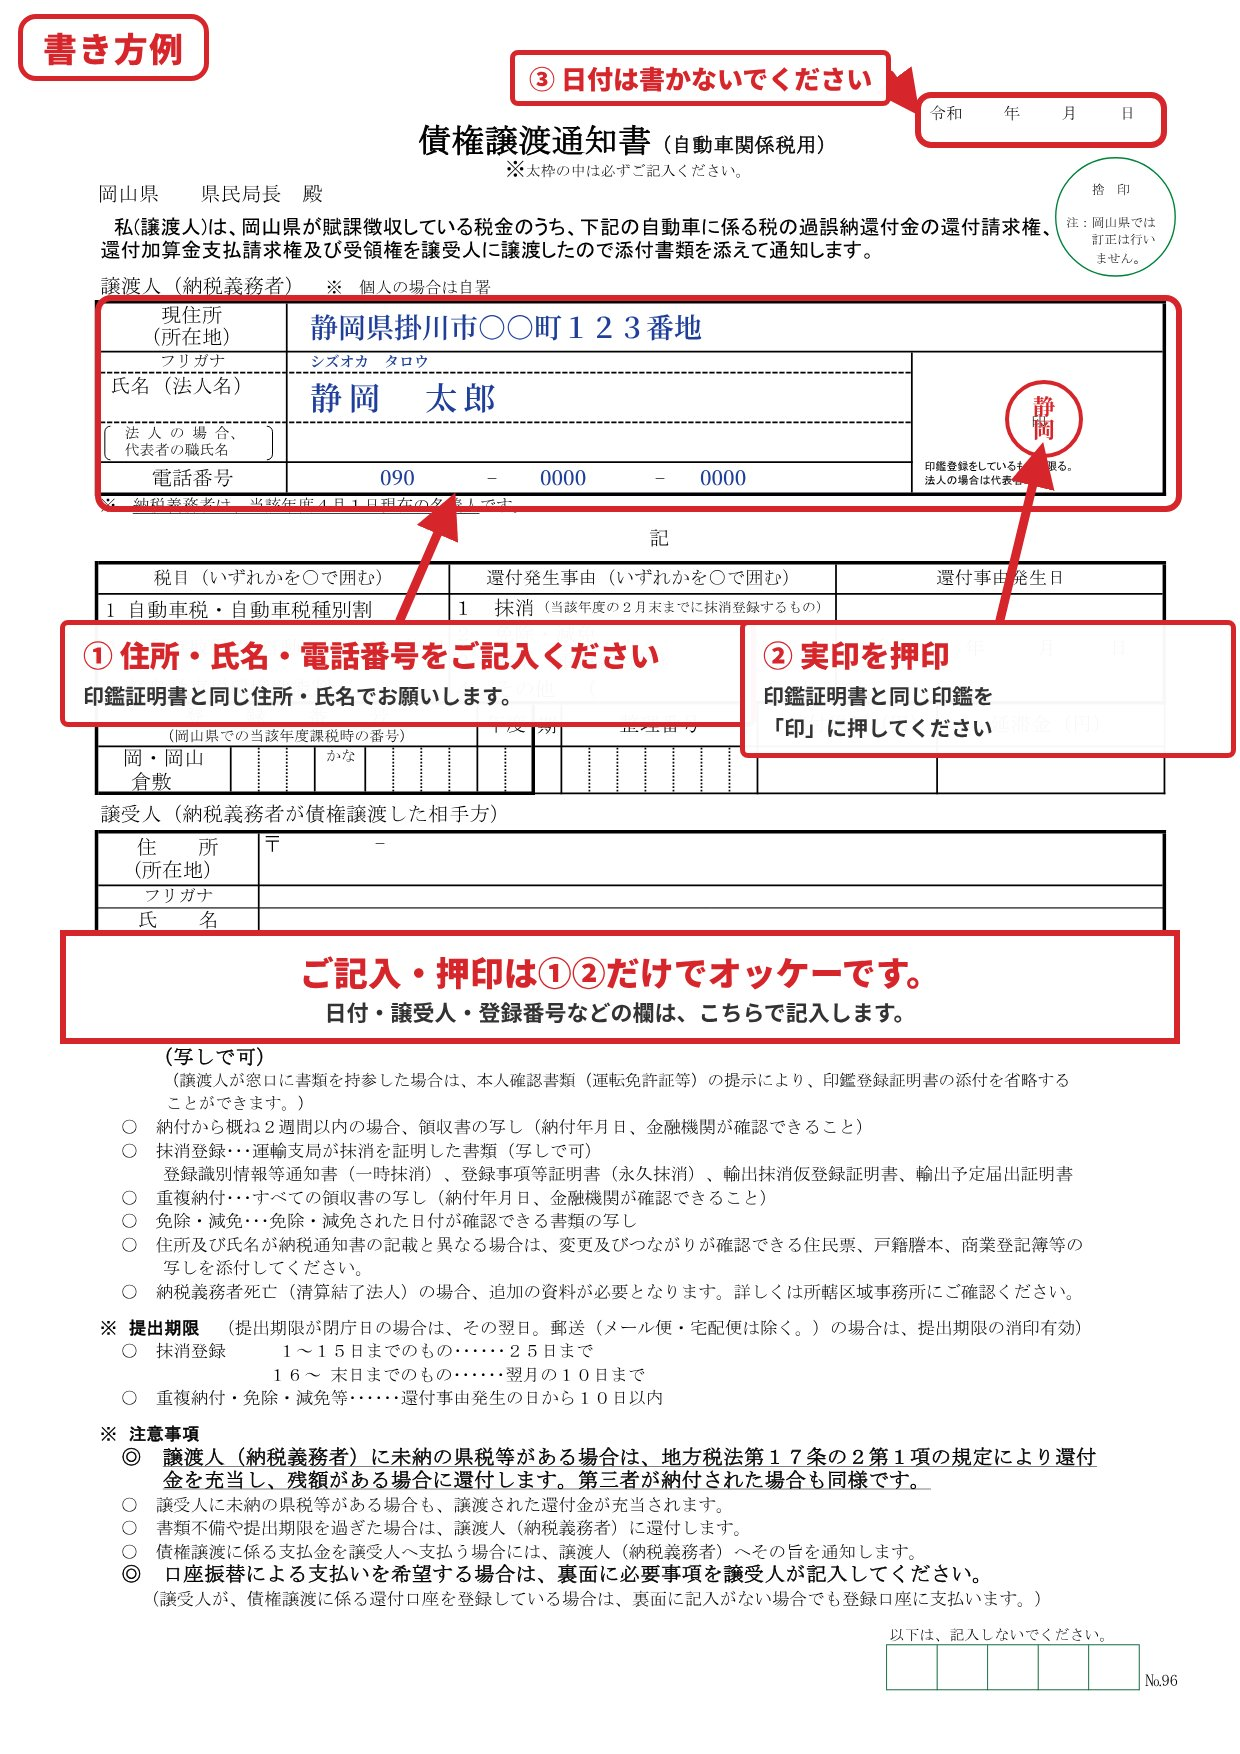
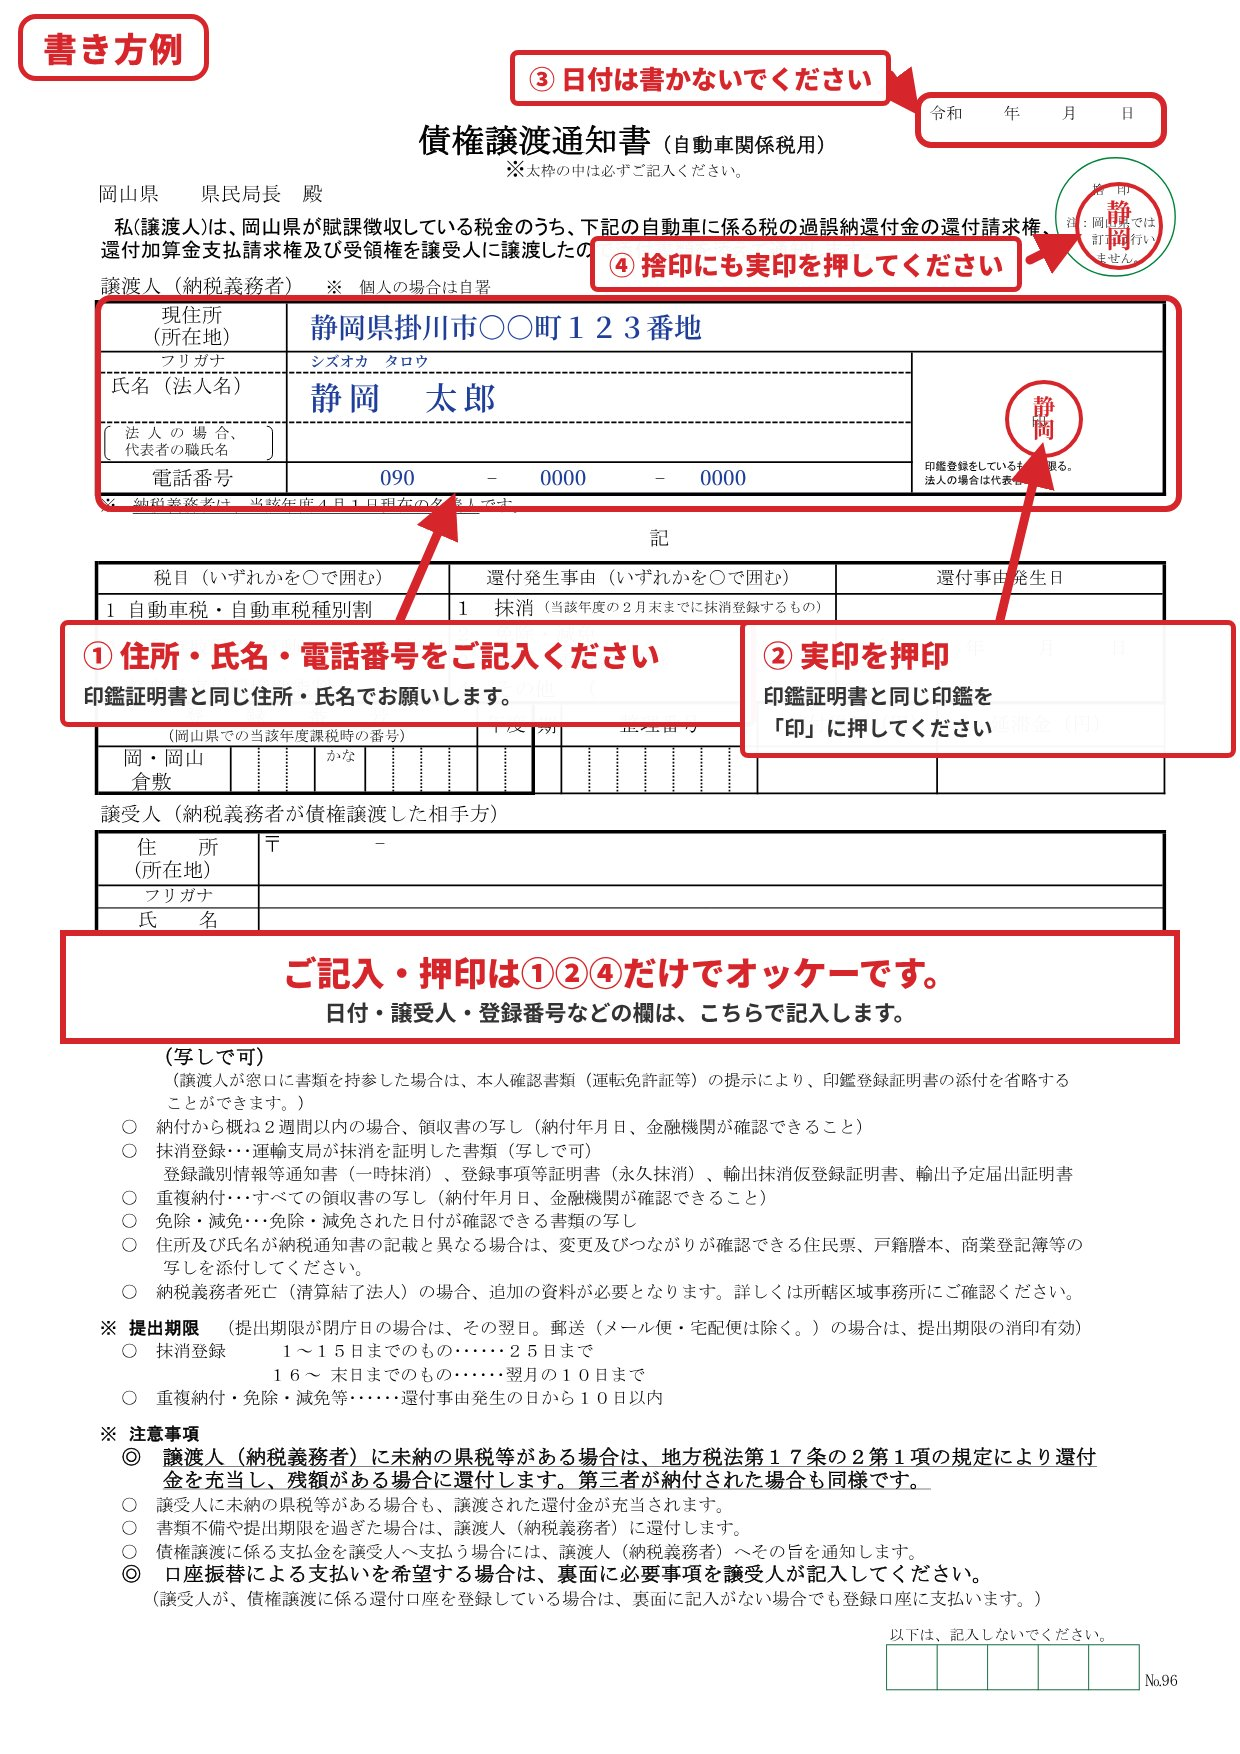
還付見本：岡山に捨印、鳥取の住所記入例を修正
Claude-Session: https://claude.ai/code/session_019DVAaf5zZXeEhu1cR78BtE

Changed region(s): [[0.2452, 0.5234, 0.7355, 0.5849], [0.4597, 0.0924, 0.95, 0.1847]]

diff --git a/index.html b/index.html
@@ -376,8 +376,8 @@
 <div class="toast" id="toast" role="status" aria-live="polite"></div>
 <div class="peek" id="peek" aria-hidden="true"></div>
 
-<script src="data.js?v=20261110b"></script>
-<script src="attach.js?v=20261110b"></script>
+<script src="data.js?v=20261110c"></script>
+<script src="attach.js?v=20261110c"></script>
 <script>
 (() => {
   const $ = (s) => document.querySelector(s);
